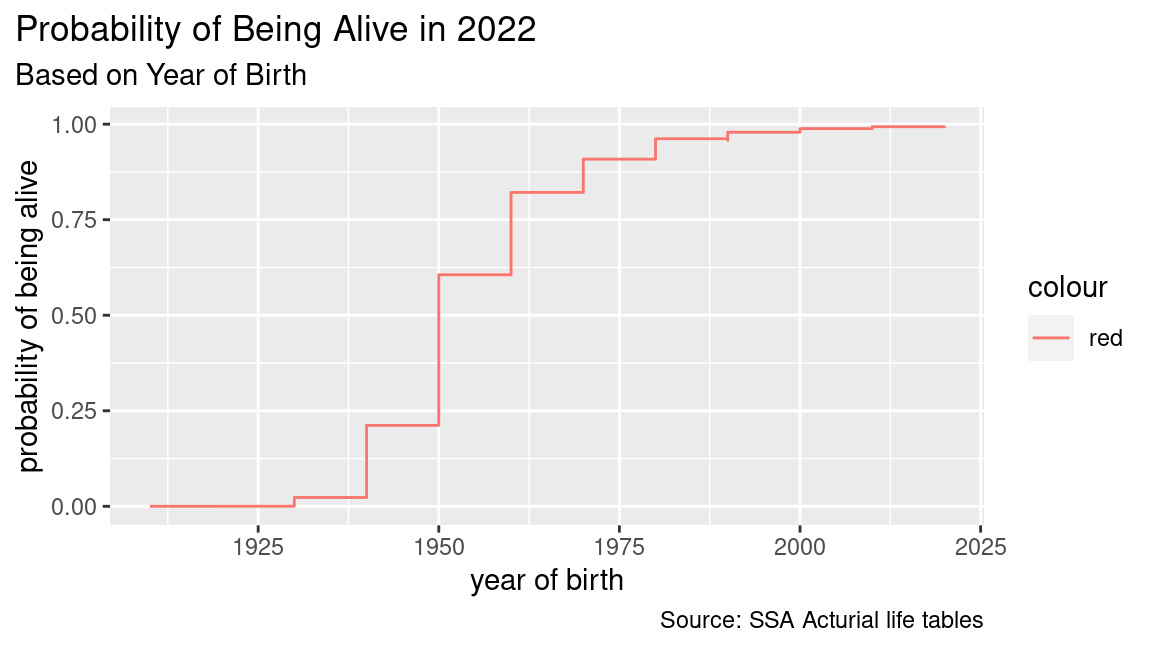
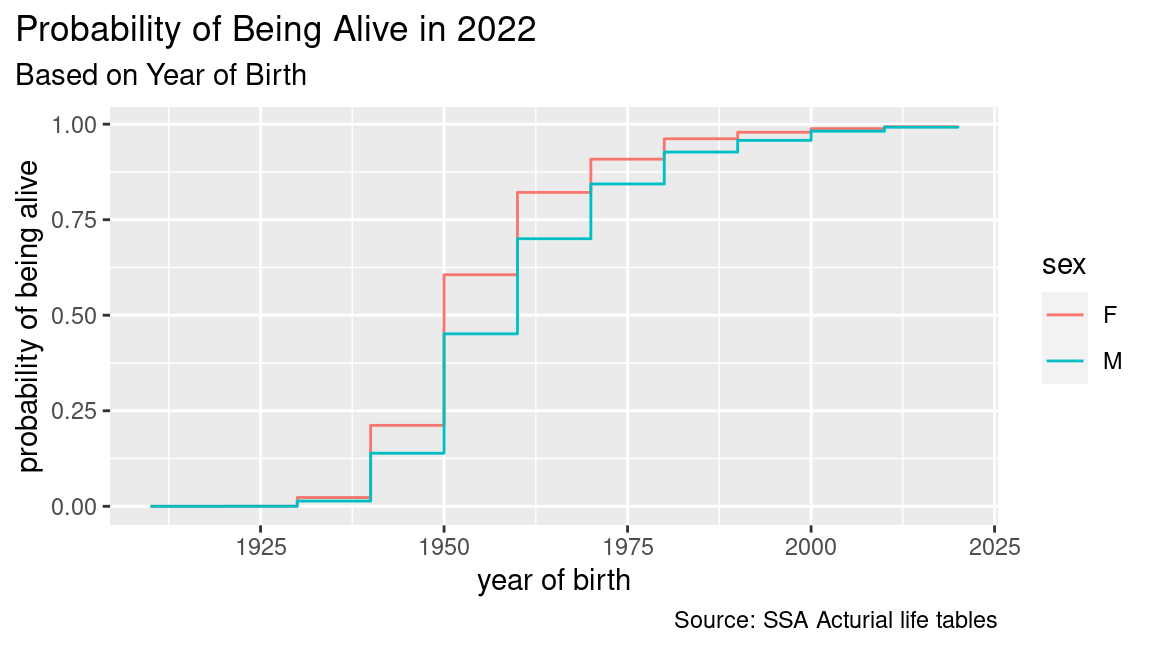
CoRise R for Data Science - Submission 02

diff --git a/projects/project-02/project-02-estimate-age-from-name.md b/projects/project-02/project-02-estimate-age-from-name.md
@@ -164,7 +164,7 @@ tbl_lifetables |>
   # Filter for rows where age and year sum up to 2022
   filter(age + year == 2022) |> 
   # Initialize a ggplot of year vs. probability of being alive (lx/10^5)
-  ggplot(aes(x = year, y = lx/10^5, color = "red")) +
+  ggplot(aes(x = year, y = lx / 10^5, color = sex)) +
   # Add a step layer
   geom_step() +
   # Add labels (title, subtitle, x, y, caption)
@@ -254,7 +254,7 @@ tbl_lifetables_extended_2022 <- tbl_lifetables_extended |>
 
 tbl_lifetables_extended_2022 |> 
   # Initialize a ggplot of year vs. probability of being alive (lx/10^5)
-  ggplot(aes(x = year, y = lx/10^5)) +
+  ggplot(aes(x = year, y = lx/10^5 , color = sex)) +
   # Add a line layer
   geom_line() +
   # Add a step layer for the non-imputed data
@@ -511,7 +511,7 @@ tbl_names_extended_age |>
       yend = name
     ),
     color = "purple",
-    linewidth = 2,
+    linewidth = 2.5,
     lineend = "round",
     linejoin = "round"
   ) +
